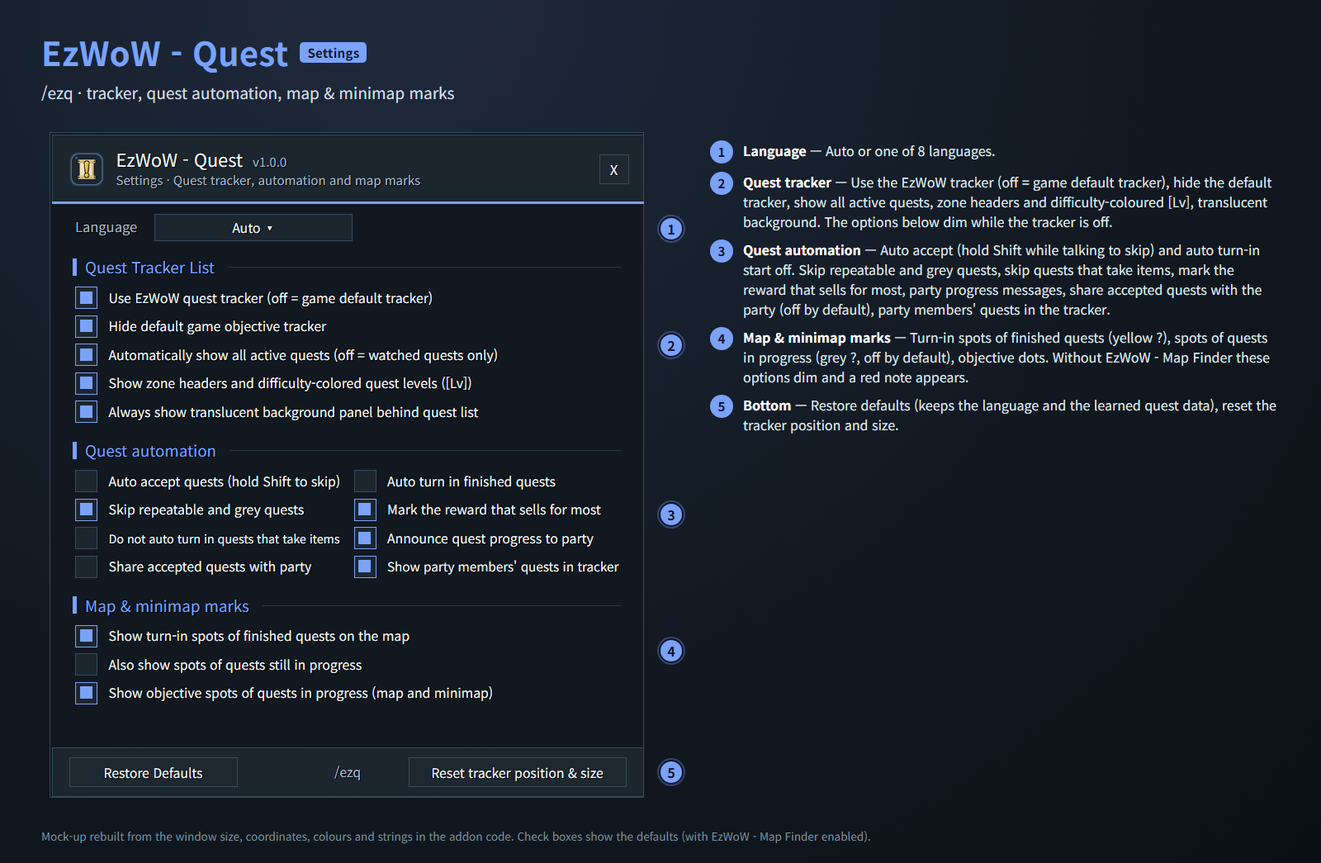
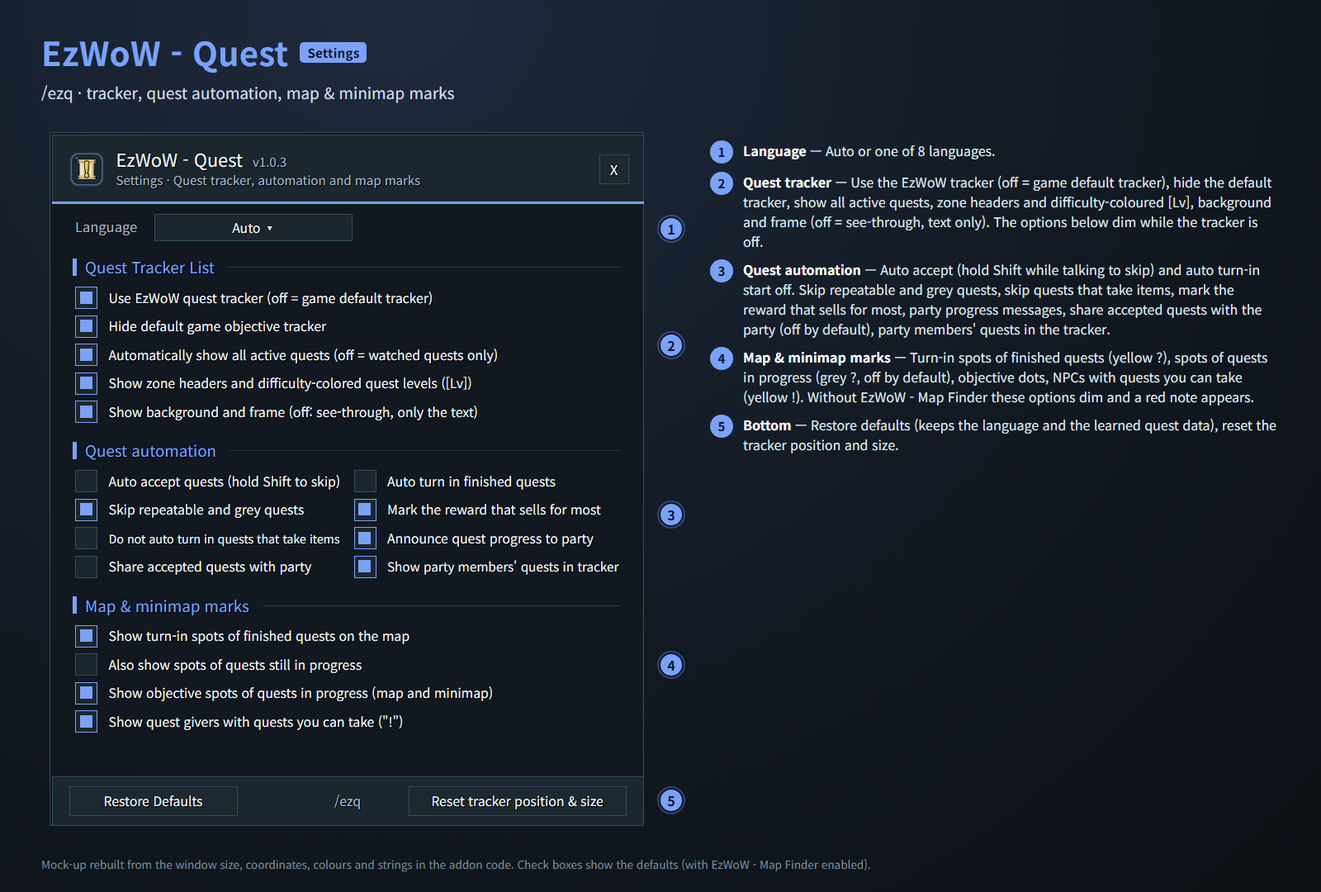
Update README, CurseForge description and example images

diff --git a/scripts/make_readme_images.py b/scripts/make_readme_images.py
@@ -144,7 +144,7 @@ def progress(have, need, finished=False):
 # ---------------------------------------------------------------------------
 T = {
     "ko": {
-        "lead": "퀘스트 추적기, 자동 수락·완료, 파티 진행 알림, 지도와 미니맵의 퀘스트 목표·보고 위치 표시",
+        "lead": "퀘스트 추적기, 자동 수락·완료, 파티 진행 알림, 지도와 미니맵의 퀘스트 목표·보고 위치, 받을 수 있는 퀘스트(!) 표시",
         "zones": ["엘윈 숲", "서부 몰락지대"],
         "q": {
             "wolf": "늑대 무리 쫓아내기", "wolfObj": "굶주린 회색 늑대 처치",
@@ -156,37 +156,39 @@ T = {
             "necklace": "잃어버린 목걸이", "necklaceObj": "할머니의 목걸이",
             "letter": "집으로 보내는 편지",
         },
-        "npc": "경비대장 로웬",
+        "npc": "경비대장 로웬", "giver": "농부 알드릭",
+        "gq": ["방앗간에 보낼 밀", "대장간 연장 배달"],
         "mapTitle": "엘윈 숲",
         "me": "이끼발톱",
         "party": "파티",
         "notes": [
-            ("추적기 머리줄", "수행 중인 퀘스트 수/최대 수. 좌클릭: 목록 접기·펼치기, 우클릭: 설정창. 끌어서 이동, Ctrl + 휠로 크기 50~150%."),
+            ("추적기 머리줄", "수행 중인 퀘스트 수/최대 수. 좌클릭: 목록 접기·펼치기, 우클릭: 설정창. 끌어서 이동, Ctrl + 휠로 크기 50~150%. 마우스를 올리면 나오는 자물쇠 버튼으로 위치·크기를 잠급니다(잠기면 배경이 투명해지고 Ctrl + 끌기로만 이동)."),
             ("지역 헤더", "퀘스트를 지역별로 묶습니다. 클릭하면 그 지역을 접습니다."),
             ("퀘스트 아이템 버튼", "사용 아이템이 있는 퀘스트는 왼쪽 버튼을 눌러 바로 씁니다."),
-            ("퀘스트 줄", "[레벨]을 난이도 색으로(던전은 [16D], 정예는 [21+]처럼 표시), (완료)·(실패)를 바로 표시. 파티 중에는 줄 끝에 같은 퀘스트를 가진 파티원 수([2/2] 초록 = 모두, [1/2] 보라 = 일부, [0/2] 회색 = 없음)를 보여 주고, 마우스를 올리면 파티원별로 나옵니다. 좌클릭: 퀘스트 로그, Ctrl + 좌클릭: 집중 추적(▸), Shift + 좌클릭: 채팅 링크, Alt + 좌클릭: 파티에 공유, 우클릭: 목표 접기, Alt + 우클릭: 숨기기."),
+            ("퀘스트 줄", "[레벨]을 난이도 색으로(던전은 [16D], 정예는 [21+]처럼 표시), (완료)·(실패)를 바로 표시. 파티 중에는 줄 끝에 같은 퀘스트를 가진 파티원 수([2/2] 초록 = 모두, [1/2] 보라 = 일부, [0/2] 회색 = 없음)를 보여 주고, 마우스를 올리면 파티원별로 나옵니다. 좌클릭: 퀘스트 로그와 함께 가장 가까운 수행 위치로 길 안내, Ctrl + 좌클릭: 퀘스트 로그만, Shift + 좌클릭: 채팅 링크, Alt + 좌클릭: 파티에 공유, 우클릭: 목표 접기, Alt + 우클릭: 숨기기."),
             ("목표 진행 색", "아직 0이면 흰색, 진행할수록 주황 → 노랑 → 연두, 다 채우면 초록."),
             ("크기 조절", "아래 모서리를 끌어 가로·세로 크기 조절(기본 270×360, 우클릭: 초기화). 목록이 길면 마우스 휠로 스크롤."),
-            ("목표 위치 (퀘스트마다 다른 색 점)", "처치할 몬스터와 모으거나 사용할 대상의 자리를 퀘스트마다 다른 색(빨강·파랑·초록·분홍·주황·하늘·보라·흰색 순)으로 표시합니다. 가까운 점은 같은 색 선으로 이어 사냥터 범위를 보여 줍니다. 마우스를 올리면 같은 색의 퀘스트 이름과 목표, 클릭하면 웨이포인트."),
+            ("목표 위치 (퀘스트마다 다른 색 점)", "처치할 몬스터와 모으거나 사용할 대상의 자리를 퀘스트마다 다른 색(빨강·파랑·초록·분홍·주황·하늘·보라·흰색 순)으로 표시합니다. 가까운 점은 같은 색 선으로 이어 사냥터 범위를 보여 줍니다. 목표가 분명하지 않은 퀘스트는 찾아볼 곳을 보여 줍니다. 마우스를 올리면 같은 색의 퀘스트 이름과 목표, 클릭하면 웨이포인트."),
             ("퀘스트 지역 (금색 고리)", "목표 위치 점이 없는 퀘스트(몬스터가 떨어뜨리는 아이템 등)는 게임이 알려 주는 퀘스트 지역을 속이 빈 금색 고리로 표시합니다."),
             ("보고 위치 (?)", "목표를 다 채운 퀘스트를 주거나 받는 NPC를 금색 테두리의 작은 어두운 원 안에 노란 ?로 표시합니다. 옵션을 켜면 진행 중인 퀘스트도 회색 ?로 표시합니다."),
             ("미니맵", "가까운 목표 점과 퀘스트 지역을 미니맵에도 표시합니다."),
             ("파티 진행 알림", "파티(인스턴스 그룹)에 수락 · 목표 진행 · 목표 달성 · 완료를 알립니다. 공격대에서는 보내지 않습니다."),
+            ("받을 수 있는 퀘스트 (!)", "지금 받을 수 있는 퀘스트가 있는 NPC를 노란 !로 표시합니다. 진영·직업·전문 기술·레벨이 맞고 앞 단계 퀘스트를 마친 퀘스트만 나오고, 명절·이벤트·기부·전장 퀘스트와 너무 낮은 레벨의 퀘스트는 빠집니다. 마우스를 올리면 퀘스트 목록, 클릭하면 웨이포인트. NPC와 미니맵 툴팁에도 받을 퀘스트와 보고할 퀘스트가 나옵니다."),
         ],
         "foot": "애드온 코드의 창 크기·좌표·색상·문구로 재현한 예시 화면입니다. 지도·미니맵·아이콘은 단순화한 그림이고, 퀘스트·NPC·캐릭터 이름은 지어낸 예시입니다. 지도 표시에는 EzWoW - Map Finder가 필요합니다.",
         "sTitle": "설정창",
         "sLead": "/ezq · /퀘스트 · 추적기, 퀘스트 자동화, 지도·미니맵 표시",
         "sNotes": [
             ("언어", "자동 또는 8개 언어 중 선택."),
-            ("퀘스트 추적 목록", "EzWoW 추적기 사용(끄면 게임 기본 추적창), 기본 추적창 숨기기, 모든 퀘스트 자동 표시, 지역 헤더·[레벨] 난이도 색, 반투명 배경. 추적기를 끄면 아래 항목은 흐려집니다."),
+            ("퀘스트 추적 목록", "EzWoW 추적기 사용(끄면 게임 기본 추적창), 기본 추적창 숨기기, 모든 퀘스트 자동 표시, 지역 헤더·[레벨] 난이도 색, 배경·테두리(끄면 글자만 보이는 투명 모드). 추적기를 끄면 아래 항목은 흐려집니다."),
             ("퀘스트 자동화", "자동 수락(Shift를 누르고 대화하면 건너뜀)·자동 완료는 처음에 꺼져 있습니다. 반복·회색 퀘스트 제외, 아이템을 내는 퀘스트 제외, 판매가가 가장 높은 보상 표시, 파티 진행 알림, 수락한 퀘스트를 파티에 공유(처음에는 꺼짐), 추적기에 파티원의 퀘스트 보유 표시."),
-            ("지도·미니맵 표시", "완료한 퀘스트의 보고 위치(노란 ?), 진행 중인 퀘스트 위치(회색 ?, 처음에는 꺼짐), 목표 위치 점. EzWoW - Map Finder가 없으면 이 항목은 흐려지고 빨간 안내 문구가 나옵니다."),
+            ("지도·미니맵 표시", "완료한 퀘스트의 보고 위치(노란 ?), 진행 중인 퀘스트 위치(회색 ?, 처음에는 꺼짐), 목표 위치 점, 받을 수 있는 퀘스트를 주는 NPC(노란 !). EzWoW - Map Finder가 없으면 이 항목은 흐려지고 빨간 안내 문구가 나옵니다."),
             ("하단", "설정 기본값 복원(언어와 모아 둔 퀘스트 정보는 유지), 추적기 위치·크기 초기화."),
         ],
         "sFoot": "애드온 코드의 창 크기·좌표·색상·문구로 재현한 예시 화면입니다. 체크 상태는 기본값입니다(EzWoW - Map Finder가 함께 켜져 있을 때).",
     },
     "en": {
-        "lead": "Quest tracker, auto accept & turn-in, party progress messages, and quest objective & turn-in spots on the map and minimap",
+        "lead": "Quest tracker, auto accept & turn-in, party progress messages, and objective, turn-in and quest giver (!) spots on the map and minimap",
         "zones": ["Elwynn Forest", "Westfall"],
         "q": {
             "wolf": "Driving Off the Wolf Pack", "wolfObj": "Hungry Grey Wolf slain",
@@ -198,31 +200,33 @@ T = {
             "necklace": "The Lost Necklace", "necklaceObj": "Grandmother's Necklace",
             "letter": "A Letter Home",
         },
-        "npc": "Guard Captain Rowen",
+        "npc": "Guard Captain Rowen", "giver": "Farmer Aldric",
+        "gq": ["Wheat for the Mill", "Tools for the Smithy"],
         "mapTitle": "Elwynn Forest",
         "me": "Mossclaw",
         "party": "Party",
         "notes": [
-            ("Tracker header", "Active quests / maximum. Left-click: collapse or expand, right-click: settings. Drag to move, Ctrl + wheel scales it 50–150%."),
+            ("Tracker header", "Active quests / maximum. Left-click: collapse or expand, right-click: settings. Drag to move, Ctrl + wheel scales it 50–150%. The lock button that appears on hover locks position and size (locked: see-through background, moves only with Ctrl + drag)."),
             ("Zone header", "Quests are grouped by zone. Click a zone to collapse it."),
             ("Quest item button", "Quests with a usable item get a button on the left; click it to use the item."),
-            ("Quest line", "[Lv] in difficulty colour (dungeons read [16D], elite quests [21+]), (Complete) and (Failed) at once. In a party the line ends with how many members also have the quest ([2/2] green = all, [1/2] violet = some, [0/2] grey = none); hover to see each member. Left-click: quest log, Ctrl + left-click: focus (▸), Shift + left-click: chat link, Alt + left-click: share with party, right-click: fold objectives, Alt + right-click: hide."),
+            ("Quest line", "[Lv] in difficulty colour (dungeons read [16D], elite quests [21+]), (Complete) and (Failed) at once. In a party the line ends with how many members also have the quest ([2/2] green = all, [1/2] violet = some, [0/2] grey = none); hover to see each member. Left-click: quest log plus a guide to the nearest place to go, Ctrl + left-click: quest log only, Shift + left-click: chat link, Alt + left-click: share with party, right-click: fold objectives, Alt + right-click: hide."),
             ("Objective colours", "White at 0, then orange → yellow → light green as you progress, green when done."),
             ("Resize", "Drag the bottom corner to resize (default 270×360, right-click: reset). Long lists scroll with the mouse wheel."),
-            ("Objective dots (one colour per quest)", "Where the creatures to kill and the things to collect or use are, in one colour per quest (red, blue, green, pink, orange, cyan, violet, white in turn). Nearby dots are joined by thin lines of the same colour so a hunting ground reads as one area. Hover for the quest name in that colour and its objectives, click for a waypoint."),
+            ("Objective dots (one colour per quest)", "Where the creatures to kill and the things to collect or use are, in one colour per quest (red, blue, green, pink, orange, cyan, violet, white in turn). Nearby dots are joined by thin lines of the same colour so a hunting ground reads as one area. Quests with unclear objectives show places to search. Hover for the quest name in that colour and its objectives, click for a waypoint."),
             ("Quest area (gold ring)", "Quests without objective dots (such as items dropped by creatures) get a hollow gold ring at the game's own quest area."),
             ("Turn-in spots (?)", "The quest giver or turn-in NPC of quests whose objectives are done: a yellow ? in a small dark badge with a gold rim. An option also shows quests in progress with a grey ?."),
             ("Minimap", "Nearby objective dots and quest areas show on the minimap too."),
             ("Party progress messages", "Tells your party (or instance group) when you accept a quest, make progress, finish the objectives and turn it in. Never sent in a raid."),
+            ("Quests you can take (!)", "NPCs with a quest you can take now get a yellow !. Only quests that match your side, class, profession and level, with earlier quests in the chain done; holiday, event, donation, battleground and low-level quests are left out. Hover for the quests, click for a waypoint. NPC and minimap tooltips also list quests to take and to hand in."),
         ],
         "foot": "Mock-up rebuilt from the window sizes, coordinates, colours and strings in the addon code. The map, minimap and icons are simplified drawings; quests, NPCs and character names are made up. Map marks need EzWoW - Map Finder.",
         "sTitle": "Settings",
         "sLead": "/ezq · tracker, quest automation, map & minimap marks",
         "sNotes": [
             ("Language", "Auto or one of 8 languages."),
-            ("Quest tracker", "Use the EzWoW tracker (off = game default tracker), hide the default tracker, show all active quests, zone headers and difficulty-coloured [Lv], translucent background. The options below dim while the tracker is off."),
+            ("Quest tracker", "Use the EzWoW tracker (off = game default tracker), hide the default tracker, show all active quests, zone headers and difficulty-coloured [Lv], background and frame (off = see-through, text only). The options below dim while the tracker is off."),
             ("Quest automation", "Auto accept (hold Shift while talking to skip) and auto turn-in start off. Skip repeatable and grey quests, skip quests that take items, mark the reward that sells for most, party progress messages, share accepted quests with the party (off by default), party members' quests in the tracker."),
-            ("Map & minimap marks", "Turn-in spots of finished quests (yellow ?), spots of quests in progress (grey ?, off by default), objective dots. Without EzWoW - Map Finder these options dim and a red note appears."),
+            ("Map & minimap marks", "Turn-in spots of finished quests (yellow ?), spots of quests in progress (grey ?, off by default), objective dots, NPCs with quests you can take (yellow !). Without EzWoW - Map Finder these options dim and a red note appears."),
             ("Bottom", "Restore defaults (keeps the language and the learned quest data), reset the tracker position and size."),
         ],
         "sFoot": "Mock-up rebuilt from the window size, coordinates, colours and strings in the addon code. Check boxes show the defaults (with EzWoW - Map Finder enabled).",
@@ -415,8 +419,9 @@ def tracker(ctx, lang, ox, oy):
 WOLVES_A = [(120, 70), (165, 52), (205, 88), (150, 112), (232, 132), (98, 125), (190, 160), (262, 84), (70, 88)]
 WOLVES_B = [(70, 300), (112, 322), (56, 345), (100, 362)]
 CRATES = [(318, 286), (366, 272), (412, 302), (384, 346), (334, 350), (431, 362)]
-RING = (575, 335)
-TURNIN = (784, 118)
+RING = (640, 382)
+TURNIN = (800, 196)
+GIVERS = [(600, 40), (250, 236)]  # NPCs with a quest to take now; the first one shows its tooltip
 
 
 def nets(points, radius, neighbours=2):
@@ -453,6 +458,13 @@ def turnin_badge(x, y, ready=True):
               f'color:{q};text-shadow:0 0 2px #000,1px 1px 0 #000">?</div>')
 
 
+def giver_badge(x, y):
+    """Quest giver mark (QuestLogPins.obtainGiverPin, state "now"): gold rim 16, dark disc 14, yellow "!" icon 12."""
+    return (disc(x, y, 16 * DS, "rgb(242,217,115)", .95) + disc(x, y, 14 * DS, "rgb(20,15,10)", .92)
+            + f'<div class="t" style="left:{x}px;top:{y + 0.5 * DS:.2f}px;transform:translate(-50%,-50%);font-size:{14 * DS:.0f}px;font-weight:800;'
+              f'color:#ffd200;text-shadow:0 0 2px #000,1px 1px 0 #000">!</div>')
+
+
 DS = 1.6  # marks keep their screen size; drawn at the same scale as the tracker
 
 
@@ -481,11 +493,11 @@ def map_panel(ctx, lang, x0, y0, w, h):
                '<stop offset="1" stop-color="#4c5b31"/></radialGradient></defs>'
                f'<rect width="{w}" height="{ch}" fill="url(#gr)"/>'
                '<path d="M0 0 H330 Q300 60 340 120 Q290 200 200 210 Q90 230 0 200 Z" fill="#41532c" opacity=".75"/>'
-               '<path d="M0 260 Q80 240 160 270 Q210 330 180 400 H0 Z" fill="#3e4f2a" opacity=".8"/>'
-               '<path d="M610 400 Q600 330 660 290 Q740 245 830 255 Q880 258 910 240 V400 Z" fill="#4f7f9a"/>'
-               '<path d="M620 400 Q615 335 670 300 Q745 258 835 266 Q882 268 910 252" fill="none" stroke="#c9b98a" stroke-width="4" opacity=".55"/>'
+               f'<path d="M0 260 Q80 240 160 270 Q210 330 180 {ch} H0 Z" fill="#3e4f2a" opacity=".8"/>'
+               f'<path d="M680 {ch} Q690 390 720 340 Q770 290 840 300 Q880 302 910 290 V{ch} Z" fill="#4f7f9a"/>'
+               f'<path d="M690 {ch} Q700 395 728 348 Q775 302 842 311 Q882 312 910 302" fill="none" stroke="#c9b98a" stroke-width="4" opacity=".55"/>'
                '<path d="M0 215 Q200 210 360 200 Q560 185 700 140 Q760 120 910 92" fill="none" stroke="#a88f5f" stroke-width="9" stroke-linecap="round"/>'
-               '<path d="M520 186 Q545 300 515 400" fill="none" stroke="#a88f5f" stroke-width="7"/>'
+               f'<path d="M520 186 Q545 300 515 {ch}" fill="none" stroke="#a88f5f" stroke-width="7"/>'
                '<g fill="#8d8478" stroke="#3a352e" stroke-width="2">'
                '<rect x="730" y="84" width="22" height="18"/><rect x="796" y="76" width="26" height="20"/>'
                '<rect x="742" y="142" width="24" height="18"/><rect x="826" y="140" width="20" height="16"/></g>'
@@ -510,6 +522,9 @@ def map_panel(ctx, lang, x0, y0, w, h):
     # turn-in badge
     qx, qy = TURNIN
     p.append(turnin_badge(qx, qy + TB))
+    # quest givers with a quest this character can take now
+    for gx, gy in GIVERS:
+        p.append(giver_badge(gx, gy + TB))
     # tooltip on a wolf dot (showGroupTooltip): title in the quest's dot colour
     hx, hy = WOLVES_A[7]
     tip1 = (f'<div style="color:{qc["wolf"]};font-size:15px">[8] {esc(q["wolf"])}</div>'
@@ -524,19 +539,27 @@ def map_panel(ctx, lang, x0, y0, w, h):
             f'<div style="color:#a7b9c5">{esc(L["questObjArea"])}</div>'
             f'<div style="color:#a7b9c5">{esc(L["questObjHint"])}</div>'
             f'<div style="color:#a7b9c5">EzWoW - Quest</div>')
-    p.append(f'<div class="tip" style="left:{rx + 16}px;top:{ry + TB - 65}px">{tip3}</div>')
+    p.append(f'<div class="tip" style="left:{rx + 16}px;top:{ry + TB - 48}px">{tip3}</div>')
     # tooltip on the turn-in mark (QuestLogPins)
     tip2 = (f'<div style="color:#7aa2f7;font-size:15px">{esc(t["npc"])}</div>'
             f'<div style="color:#edf4f7">[7] {esc(q["mine"])}&nbsp;&nbsp;<span style="color:#40ff59">{esc(L["questPinReady"])}</span></div>'
             f'<div style="color:#a7b9c5">{esc(L["questPinHint"])}</div>'
             f'<div style="color:#a7b9c5">EzWoW - Quest</div>')
     p.append(f'<div class="tip" style="right:{w - qx + 14}px;top:{qy + TB + 18}px">{tip2}</div>')
+    # tooltip on a quest giver: NPC name, the quests to take now in yellow ("! [Lv] name")
+    gx, gy = GIVERS[0]
+    tip4 = (f'<div style="color:#7aa2f7;font-size:15px">{esc(t["giver"])}</div>'
+            + "".join(f'<div style="color:#ffd100">! [{lv}] {esc(name)}</div>' for lv, name in zip((10, 11), t["gq"]))
+            + f'<div style="color:#a7b9c5">{esc(L["questGiverHint"])}</div>'
+            f'<div style="color:#a7b9c5">EzWoW - Quest</div>')
+    p.append(f'<div class="tip" style="left:{gx + 16}px;top:{gy + TB - 14}px">{tip4}</div>')
     html_ = (f'<div class="abs" style="left:{x0}px;top:{y0}px;width:{w}px;height:{h}px;border:2px solid #5d6d7a;border-radius:6px;'
              f'overflow:hidden;background:#0e1418">' + "".join(p) + "</div>")
     anchors = {
         "dots": (x0 + 30, y0 + TB + 40),
         "ring": (x0 + RING[0] - 30, y0 + TB + RING[1]),
         "turnin": (x0 + qx + 40, y0 + TB + qy),
+        "giver": (x0 + GIVERS[1][0] - 34, y0 + TB + GIVERS[1][1]),
     }
     return html_, anchors
 
@@ -589,11 +612,11 @@ def ui_page(lang, ctx):
     parts = []
     tr_html, ta, (tw, th) = tracker(ctx, lang, ox, oy)
     parts.append(tr_html)
-    mx, my, mw, mh = 640, oy, 910, 430
+    mx, my, mw, mh = 640, oy, 910, 500
     m_html, ma = map_panel(ctx, lang, mx, my, mw, mh)
     parts.append(m_html)
     sy = my + mh + 24
-    sh = round(oy + th * S - sy)
+    sh = 170
     s_html, sa = scene(ctx, lang, mx, sy, mw, sh)
     parts.append(s_html)
 
@@ -610,11 +633,12 @@ def ui_page(lang, ctx):
         (P(tw, 0)[0] + 30, P(0, th - 8)[1]),       # 6 resize corner
         ma["dots"], ma["ring"], ma["turnin"],       # 7 8 9
         sa["minimap"], sa["chat"],                 # 10 11
+        ma["giver"],                               # 12
     ]
     for i, (x, y) in enumerate(calls, 1):
         parts.append(f'<div class="call" style="left:{x - 15:.0f}px;top:{y - 15:.0f}px">{i}</div>')
 
-    notes_top = oy + th * S + 40
+    notes_top = max(oy + th * S, sy + sh) + 40
     half = 6
 
     def note_html(start, lst):

diff --git a/README.md b/README.md
@@ -17,11 +17,14 @@ WoW Forever (`Interface: 16001`) · `/ezq` · `/퀘스트`
 
 퀘스트에 필요한 기능을 한곳에 모은 애드온입니다.
 
-- 기본 추적창 대신 쓰는 **스크롤형 퀘스트 추적기** (지역별 묶음, `[레벨]` 난이도 색, 목표 진행 색, 퀘스트 아이템 버튼)
+- 기본 추적창 대신 쓰는 **스크롤형 퀘스트 추적기** (지역별 묶음, `[레벨]` 난이도 색, 목표 진행 색, 퀘스트 아이템 버튼, 위치·크기 잠금, 글자만 보이는 투명 모드)
+- 추적기에서 퀘스트를 클릭하면 **가장 가까운 수행 위치로 길 안내**
 - **자동 수락·자동 완료** (Shift를 누르고 대화하면 건너뜀), 판매가가 가장 높은 보상 표시
 - 수락·진행·완료를 파티에 알리는 **파티 진행 알림**
 - **퀘스트 공유**(추적기에서 Alt + 좌클릭, 수락할 때 자동 공유 옵션)와 추적기의 **파티원 퀘스트 보유 표시**(`[2/4]`)
 - **지도와 미니맵의 퀘스트 표시**: 퀘스트마다 다른 색의 목표 위치 점, 점이 없는 퀘스트의 퀘스트 지역(금색 고리), 보고 위치(`?`)
+- 세계지도에 **지금 받을 수 있는 퀘스트를 주는 NPC**(노란 `!`), NPC와 미니맵 툴팁에 받을 퀘스트·보고할 퀘스트 표시
+- 세계지도 퀘스트 목록의 **모두 펼치기/접기, 모두 체크/해제** 버튼
 
 ### 화면 미리보기
 
@@ -42,27 +45,41 @@ WoW Forever (`Interface: 16001`) · `/ezq` · `/퀘스트`
 
 | 번호 | 기능 | 설명 |
 |---|---|---|
-| ① | 추적기 머리줄 | 수행 중인 퀘스트 수/최대 수. 좌클릭: 목록 접기·펼치기, 우클릭: 설정창 |
+| ① | 추적기 머리줄 | 수행 중인 퀘스트 수/최대 수. 좌클릭: 목록 접기·펼치기, 우클릭: 설정창. 마우스를 올리면 자물쇠 버튼이 나옵니다(아래 참고) |
 | ② | 지역 헤더 | 퀘스트를 지역별로 묶습니다. 클릭하면 그 지역을 접습니다 |
 | ③ | 퀘스트 아이템 버튼 | 사용 아이템이 있는 퀘스트는 왼쪽 버튼을 눌러 바로 씁니다 |
 | ④ | 퀘스트 줄 | `[레벨]`을 난이도 색으로(던전은 `[16D]`, 정예는 `[21+]`처럼 표시), `(완료)`·`(실패)`를 바로 표시합니다. 파티 중에는 줄 끝에 같은 퀘스트를 가진 파티원 수(`[2/2]` 초록 = 모두, `[1/2]` 보라 = 일부, `[0/2]` 회색 = 없음)를 보여 주고, 마우스를 올리면 파티원별로 나옵니다 |
 | ⑤ | 목표 진행 색 | 0이면 흰색, 진행할수록 주황 → 노랑 → 연두, 다 채우면 초록 |
 | ⑥ | 크기 조절 | 아래 모서리를 끌어 가로·세로 크기 조절(기본 270×360) |
-| ⑦ | 목표 위치 (퀘스트마다 다른 색 점) | 처치할 몬스터와 모으거나 사용할 대상의 자리. 퀘스트마다 한 가지 색(빨강·파랑·초록·분홍·주황·하늘·보라·흰색 순)을 쓰고, 가까운 점은 같은 색 선으로 이어 사냥터 범위를 보여 줍니다. 툴팁의 퀘스트 이름도 같은 색입니다 |
+| ⑦ | 목표 위치 (퀘스트마다 다른 색 점) | 처치할 몬스터와 모으거나 사용할 대상의 자리. 퀘스트마다 한 가지 색(빨강·파랑·초록·분홍·주황·하늘·보라·흰색 순)을 쓰고, 가까운 점은 같은 색 선으로 이어 사냥터 범위를 보여 줍니다. 툴팁의 퀘스트 이름도 같은 색입니다. 목표가 분명하지 않은 퀘스트는 찾아볼 곳(퀘스트 설명에 나온 곳 등)을 보여 줍니다 |
 | ⑧ | 퀘스트 지역 (금색 고리) | 목표 위치 점이 없는 퀘스트(몬스터가 떨어뜨리는 아이템 등)는 게임이 알려 주는 퀘스트 지역을 속이 빈 금색 고리로 표시 |
 | ⑨ | 보고 위치 (`?`) | 목표를 다 채운 퀘스트를 주거나 받는 NPC. 금색 테두리의 작은 어두운 원 안에 노란 `?`. 옵션을 켜면 진행 중인 퀘스트도 회색 `?`로 표시 |
 | ⑩ | 미니맵 | 가까운 목표 점과 퀘스트 지역을 미니맵에도 표시 |
 | ⑪ | 파티 진행 알림 | 파티(인스턴스 그룹)에 수락·목표 진행·목표 달성·완료를 알림. 공격대에서는 보내지 않음 |
+| ⑫ | 받을 수 있는 퀘스트 (`!`) | 지금 받을 수 있는 퀘스트가 있는 NPC를 세계지도에 금색 테두리의 작은 어두운 원 안에 노란 `!`로 표시. 마우스를 올리면 NPC 이름과 퀘스트 목록(`! [레벨] 퀘스트 이름`) |
 
-지도의 점·물음표에 마우스를 올리면 퀘스트와 목표가 나오고, 클릭하면 그 자리에 웨이포인트를 찍습니다.
+지도의 점·물음표·느낌표에 마우스를 올리면 퀘스트와 목표가 나오고, 클릭하면 그 자리에 웨이포인트를 찍습니다.
+
+#### 받을 수 있는 퀘스트 (`!`)
+
+- 진영·직업·종족·전문 기술·레벨이 맞고, 앞 단계 퀘스트를 마친 퀘스트만 표시합니다. 이미 끝냈거나 퀘스트 목록에 있는 퀘스트는 빠집니다.
+- 명절·이벤트·기부·전장 퀘스트와 너무 낮은 레벨(게임에서 회색으로 나오는) 퀘스트는 표시하지 않습니다.
+- 퀘스트 레벨은 WoW Forever 서버 기준입니다.
+- **NPC 툴팁과 미니맵 툴팁**에도 그 NPC에게서 받을 수 있는 퀘스트(노란 `!`, 몇 레벨 뒤에 받을 수 있는 퀘스트는 회색으로 "Lv.N부터")와 그 NPC에게 보고할 퀘스트(초록 `?`, "보고")가 나옵니다.
+
+#### 세계지도 퀘스트 목록
+
+- 세계지도의 퀘스트 목록을 열면 지도 창 오른쪽 바깥에 버튼 두 개가 나옵니다.
+- **모두 펼치기 / 모두 접기**: 퀘스트 목록의 모든 지역 머리줄을 한 번에 펼치거나 접습니다.
+- **모두 체크 / 모두 해제**: 모든 퀘스트를 추적(체크)하거나, 모두 체크되어 있으면 모두 해제합니다.
 
 #### 추적기 조작
 
 | 조작 | 결과 |
 |---|---|
 | 머리줄 좌클릭 / 우클릭 | 목록 접기·펼치기 / 설정창 열기 |
-| 퀘스트 좌클릭 | 그 퀘스트의 퀘스트 로그 열기 |
-| Ctrl + 좌클릭 | 집중 추적(`▸`) 켜기·끄기 |
+| 퀘스트 좌클릭 | 퀘스트 로그를 열고 가장 가까운 수행 위치로 길 안내(채팅창에 목적지와 좌표를 알리고 웨이포인트를 찍음) |
+| Ctrl + 좌클릭 | 퀘스트 로그만 열기 |
 | Shift + 좌클릭 | 채팅창에 퀘스트 링크 / 추적 해제 |
 | Alt + 좌클릭 | 파티에 퀘스트 공유 (공유할 수 없는 퀘스트는 채팅창에 짧게 알림) |
 | 퀘스트 우클릭 | 목표 접기·펼치기 |
@@ -74,7 +91,9 @@ WoW Forever (`Interface: 16001`) · `/ezq` · `/퀘스트`
 | Shift + 우클릭 | 위치 초기화 |
 | Ctrl + 우클릭 | 크기(100%, 270×360) 초기화 |
 | Ctrl + Alt + 우클릭 | 위치·크기 모두 초기화 |
+| 머리줄의 자물쇠 버튼 | 위치·크기 잠금·해제. 잠기면 크기 조절과 Ctrl + 휠 배율이 막히고 배경이 투명해지며, Ctrl + 끌기로만 옮길 수 있습니다 |
 
+- 길 안내는 아직 채우지 않은 목표의 위치 중 가장 가까운 곳을, 목표를 다 채운 퀘스트는 보고 위치를 가리킵니다. 안내할 곳이 없으면 퀘스트 로그만 엽니다.
 - 전투 중에는 보호된 창 속성을 바꾸지 않습니다. 퀘스트 아이템 버튼은 전투가 끝난 뒤 갱신됩니다.
 
 ### 퀘스트 자동화
@@ -101,11 +120,12 @@ WoW Forever (`Interface: 16001`) · `/ezq` · `/퀘스트`
 | ② | 기본 게임의 우측 퀘스트 추적창 숨기기 | 켬 |
 | ② | 수행 중인 모든 퀘스트 자동 표시 (끄면 추적 체크한 퀘스트만) | 켬 |
 | ② | 지역·분류 헤더 및 퀘스트 레벨(`[레벨]`) 난이도 색상 표시 | 켬 |
-| ② | 퀘스트 목록 반투명 배경 패널 상시 표시 | 켬 |
+| ② | 퀘스트 목록 배경·테두리 표시 (끄면 글자만 보이는 투명 모드) | 켬 |
 | ③ | 퀘스트 자동화 (위 표 참고) | - |
 | ④ | 완료한 퀘스트의 보고 위치를 지도에 표시 | 켬 |
 | ④ | 진행 중인 퀘스트 위치도 표시 | 끔 |
 | ④ | 진행 중인 퀘스트 목표 위치 표시 (지도·미니맵) | 켬 |
+| ④ | 받을 수 있는 퀘스트 주는 NPC 표시 (!) | 켬 |
 | ⑤ | 설정 기본값 복원(언어와 모아 둔 퀘스트 정보는 유지) · 추적기 위치·크기 초기화 | - |
 
 - ④ 항목은 **EzWoW - Map Finder**가 없으면 흐려지고 안내 문구가 나옵니다.
@@ -122,7 +142,7 @@ WoW Forever (`Interface: 16001`) · `/ezq` · `/퀘스트`
 
 - **EzWoW - Frame Mover**와 **EzWoW - Map Finder**에 있던 퀘스트 기능(추적기, 자동화, 파티 알림, 지도의 퀘스트 표시)이 이 애드온으로 옮겨 왔습니다. 이 애드온이 켜져 있으면 두 애드온의 퀘스트 기능은 저절로 꺼지고, 이 애드온이 맡습니다. 이 애드온을 끄면 예전처럼 두 애드온이 퀘스트 기능을 맡습니다.
 - 처음 실행할 때 두 애드온의 퀘스트 설정(추적기 크기·위치·접힘·숨긴 퀘스트, 자동화, 지도 표시 옵션)을 **한 번만** 그대로 가져오고 채팅창에 알려 줍니다.
-- 지도·미니맵 표시는 **EzWoW - Map Finder**의 위치 정보를 쓰므로, 지도 표시를 쓰려면 Map Finder가 함께 켜져 있어야 합니다. 추적기·자동화·파티 알림은 이 애드온만으로 동작합니다.
+- 지도·미니맵 표시, NPC 툴팁의 퀘스트 목록, 추적기의 길 안내는 **EzWoW - Map Finder**의 위치 정보를 쓰므로 Map Finder가 함께 켜져 있어야 합니다. Map Finder가 있으면 길 안내에 Map Finder의 화살표 표시도 씁니다. 추적기·자동화·파티 알림은 이 애드온만으로 동작합니다.
 
 ### 저장 데이터
 
@@ -136,11 +156,14 @@ WoW Forever (`Interface: 16001`) · `/ezq` · `/퀘스트`
 
 All quest features in one addon.
 
-- A **scrollable quest tracker** that replaces the default one (grouped by zone, difficulty-coloured `[Lv]`, objective progress colours, quest item buttons)
+- A **scrollable quest tracker** that replaces the default one (grouped by zone, difficulty-coloured `[Lv]`, objective progress colours, quest item buttons, position/size lock, see-through text-only mode)
+- Click a quest in the tracker to be **guided to the nearest place to go**
 - **Auto accept and auto turn-in** (hold Shift while talking to skip), plus a mark on the reward that sells for most
 - **Party progress messages** for accepted, progressed and finished quests
 - **Quest sharing** (Alt + left-click in the tracker, optional auto share on accept) and **party quest status** in the tracker (`[2/4]`)
 - **Quest marks on the map and minimap**: objective dots in one colour per quest, a quest area (gold ring) for quests without dots, and turn-in spots (`?`)
+- **Quest givers with a quest you can take now** on the World Map (yellow `!`), and quests to take or hand in on NPC and minimap tooltips
+- **Expand all / Collapse all and Check all / Clear all** buttons for the World Map quest list
 
 ### Screenshots
 
@@ -161,27 +184,41 @@ All quest features in one addon.
 
 | No. | Feature | Description |
 |---|---|---|
-| ① | Tracker header | Active quests / maximum. Left-click: collapse or expand, right-click: settings |
+| ① | Tracker header | Active quests / maximum. Left-click: collapse or expand, right-click: settings. A lock button appears on hover (see below) |
 | ② | Zone header | Quests are grouped by zone. Click a zone to collapse it |
 | ③ | Quest item button | Quests with a usable item get a button on the left; click it to use the item |
 | ④ | Quest line | `[Lv]` in difficulty colour (dungeons read `[16D]`, elite quests `[21+]`), `(Complete)` and `(Failed)` at once. In a party the line ends with how many members also have the quest (`[2/2]` green = all, `[1/2]` violet = some, `[0/2]` grey = none); hover to see each member |
 | ⑤ | Objective colours | White at 0, then orange → yellow → light green, green when done |
 | ⑥ | Resize | Drag the bottom corner to resize (default 270×360) |
-| ⑦ | Objective dots (one colour per quest) | Where the creatures to kill and the things to collect or use are. Each quest gets one colour (red, blue, green, pink, orange, cyan, violet, white in turn); nearby dots are joined by thin lines of the same colour so a hunting ground reads as one area. The quest name in the tooltip uses the same colour |
+| ⑦ | Objective dots (one colour per quest) | Where the creatures to kill and the things to collect or use are. Each quest gets one colour (red, blue, green, pink, orange, cyan, violet, white in turn); nearby dots are joined by thin lines of the same colour so a hunting ground reads as one area. The quest name in the tooltip uses the same colour. Quests with unclear objectives show places to search (such as places named in the quest text) |
 | ⑧ | Quest area (gold ring) | Quests without objective dots (such as items dropped by creatures) get a hollow gold ring at the game's own quest area |
 | ⑨ | Turn-in spots (`?`) | Quest giver or turn-in NPC of quests whose objectives are done: a yellow `?` in a small dark badge with a gold rim. An option also shows quests in progress with a grey `?` |
 | ⑩ | Minimap | Nearby objective dots and quest areas show on the minimap too |
 | ⑪ | Party progress messages | Tells your party (or instance group) about accepted quests, progress, finished objectives and turn-ins. Never sent in a raid |
+| ⑫ | Quests you can take (`!`) | NPCs with a quest you can take now get a yellow `!` in a small dark badge with a gold rim on the World Map. Hover for the NPC and its quests (`! [Lv] quest name`) |
 
-Hover a dot or question mark on the map to see the quest and objective; click it to set a waypoint there.
+Hover a dot, question mark or exclamation mark on the map to see the quest and objective; click it to set a waypoint there.
+
+#### Quests you can take (`!`)
+
+- Only quests that match your side, class, race, profession and level, with the earlier quests in the chain done. Quests you have finished or that are in your log are left out.
+- Holiday, event, donation and battleground quests, and low-level quests (grey in the game), are not shown.
+- Quest levels follow the WoW Forever server.
+- **NPC and minimap tooltips** also list the quests that NPC gives (yellow `!`; quests a few levels away in grey with "from Lv.N") and the finished quests to hand in there (green `?`, "hand in").
+
+#### World Map quest list
+
+- With the quest list open on the World Map, two buttons appear just outside the right edge of the map window.
+- **Expand all / Collapse all**: opens or folds every zone heading of the quest list at once.
+- **Check all / Clear all**: tracks (checks) every quest, or clears every check when all are checked.
 
 #### Tracker controls
 
 | Action | Result |
 |---|---|
 | Header left-click / right-click | Collapse or expand the list / open settings |
-| Quest left-click | Open that quest in the quest log |
-| Ctrl + left-click | Focus the quest (`▸`) on or off |
+| Quest left-click | Open the quest log and guide you to the nearest place to go (a chat line with the target and coordinates, plus a waypoint) |
+| Ctrl + left-click | Open the quest log only |
 | Shift + left-click | Link in chat / stop tracking |
 | Alt + left-click | Share the quest with your party (a short note in chat if it can't be shared) |
 | Quest right-click | Fold or unfold its objectives |
@@ -193,7 +230,9 @@ Hover a dot or question mark on the map to see the quest and objective; click it
 | Shift + right-click | Reset the position |
 | Ctrl + right-click | Reset the scale and size (100%, 270×360) |
 | Ctrl + Alt + right-click | Reset both position and size |
+| Lock button on the header | Lock or unlock position and size. Locked: no resizing or Ctrl + wheel scaling, the background turns see-through, and the list moves only with Ctrl + drag |
 
+- The guide points at the nearest place of an unfinished objective, or at the turn-in spot once the objectives are done. With nowhere to guide to, only the quest log opens.
 - Protected frame attributes are never changed in combat. Quest item buttons are updated after combat.
 
 ### Quest automation
@@ -220,11 +259,12 @@ Turn it on in the **Quest automation** section of the settings. Hold **Shift** w
 | ② | Hide default game objective tracker | On |
 | ② | Automatically show all active quests (off = watched quests only) | On |
 | ② | Show zone headers and difficulty-colored quest levels (`[Lv]`) | On |
-| ② | Always show translucent background panel behind quest list | On |
+| ② | Show background and frame (off: see-through, only the text) | On |
 | ③ | Quest automation (see the table above) | - |
 | ④ | Show turn-in spots of finished quests on the map | On |
 | ④ | Also show spots of quests still in progress | Off |
 | ④ | Show objective spots of quests in progress (map and minimap) | On |
+| ④ | Show quest givers with quests you can take ("!") | On |
 | ⑤ | Restore Defaults (keeps the language and the learned quest data) · Reset tracker position & size | - |
 
 - The ④ options are dimmed, with a note, when **EzWoW - Map Finder** is not enabled.
@@ -241,7 +281,7 @@ Turn it on in the **Quest automation** section of the settings. Hold **Shift** w
 
 - The quest features of **EzWoW - Frame Mover** and **EzWoW - Map Finder** (tracker, automation, party messages, quest marks on the map) have moved here. While this addon is enabled, their quest features turn themselves off and this addon takes over. Disable this addon and the two addons handle quests as before.
 - On the first start, the quest settings of both addons (tracker size, position, folded and hidden quests, automation, map mark options) are carried over **once**, with a note in chat.
-- The map and minimap marks use the location data of **EzWoW - Map Finder**, so it must be enabled for them. The tracker, automation and party messages work on their own.
+- The map and minimap marks, the quest lists on NPC tooltips and the tracker's guide use the location data of **EzWoW - Map Finder**, so it must be enabled for them. With Map Finder the guide also uses its arrow marks. The tracker, automation and party messages work on their own.
 
 ### Saved data
 
